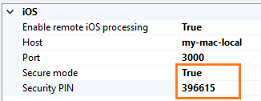
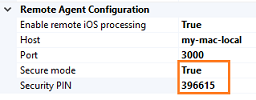
updates to the iOS Setup guide

diff --git a/articles/getting-started/ios-guide.md b/articles/getting-started/ios-guide.md
@@ -45,6 +45,7 @@ Let's help you set things up.
     ```
      xcode-select -–install
     ```
+
     This installs the Xcode command-line tools.
 
 4. In the Terminal app, type this command.
@@ -103,7 +104,7 @@ You'll use those pieces of information in the next section.
 
 2. On the Visual Studio menu bar, choose **Tools**->**Options**.
 
-4. In the **Options** dialog box, open **Tools for Apache Cordova**, and then choose **Remote Agent Configuration**.
+4. In the **Options** dialog box, open **Tools for Apache Cordova**, and then choose **iOS Configuration**.
 
     ![Remote Agent Configuration Options](media/ios-guide/options-dialog.png)
 
@@ -427,7 +428,9 @@ Need more detail? See any of these articles on the Apple Developer website:
 
 [Are you experiencing a symptom that does not appear in this list?](#stack)
 
-### Connect the device to a Windows computer
+### <a id="local-deploy">Connect the device to a Windows computer
+
+You can attach an iOS device to your Windows computer, then set breakpoints in your app and debug it. As long as you can connect to your Mac, you don't have be anywhere near it. This makes it easier to build and debug iOS apps on a Windows computer and share a Mac with other developers on your team.
 
 To do this, you'll need a provisioning profile that you create by using an Apple Developer Account. If haven't yet done this, see [Option 1: Use an Apple Developer Account](#use-developer-account). That section of content also shows you how to install the provisioning profile to your device. That is also very important.
 
@@ -447,21 +450,36 @@ To do this, you'll need a provisioning profile that you create by using an Apple
 
     Apple iTunes automatically starts.
 
-3. In Visual Studio, open the project for your app.
+4. On the Visual Studio menu bar, choose **Tools**->**Options**.
 
-4. On the Standard toolbar, choose the **iOS** platform.
+5. In the **Options** dialog box, open **Tools for Apache Cordova**, and then choose **iOS Configuration**.
+
+   ![iOS configuration dialog box](media/ios-guide/options-dialog.png)
+
+6. Add the path to the device support files that are located on your remote Mac.
+
+    >**Note**: Do this only if you want to debug your app. You don't have to do this if just want to run your app on the device without debugging it.
+
+   ![Path to device files](media/ios-guide/local-debugging.png)
+
+7. Choose the **OK** button to close this dialog box.
+
+8. In Visual Studio, open the project for your app.
+
+9. On the Standard toolbar, choose the **iOS** platform.
 
     ![Platform selector](media/ios-guide/ios-platform.png)
 
-5. Choose **Local Device**.
+10. Choose **Local Device**.
 
     ![Target selector](media/ios-guide/local-device.png)
 
-6. Press the F5 key to start your app.
+11. Press the F5 key to start your app.
 
     Visual Studio builds your app by connecting to the remote agent on your mac. When the build is complete, Apple iTunes starts and the iOS app is added to your library.
 
-7. In Apple iTunes, install the app on the connected device.
+12. In Apple iTunes, install the app on the connected device.
+
 
 ## Stop the remote agent on your Mac
 
